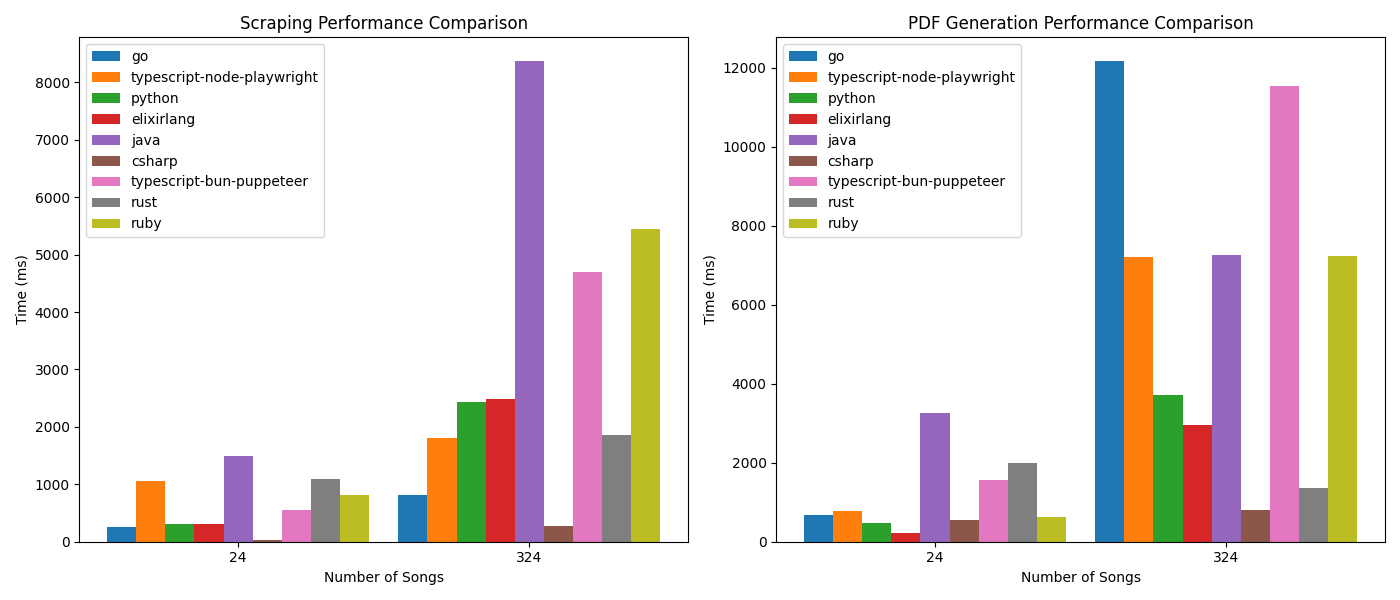
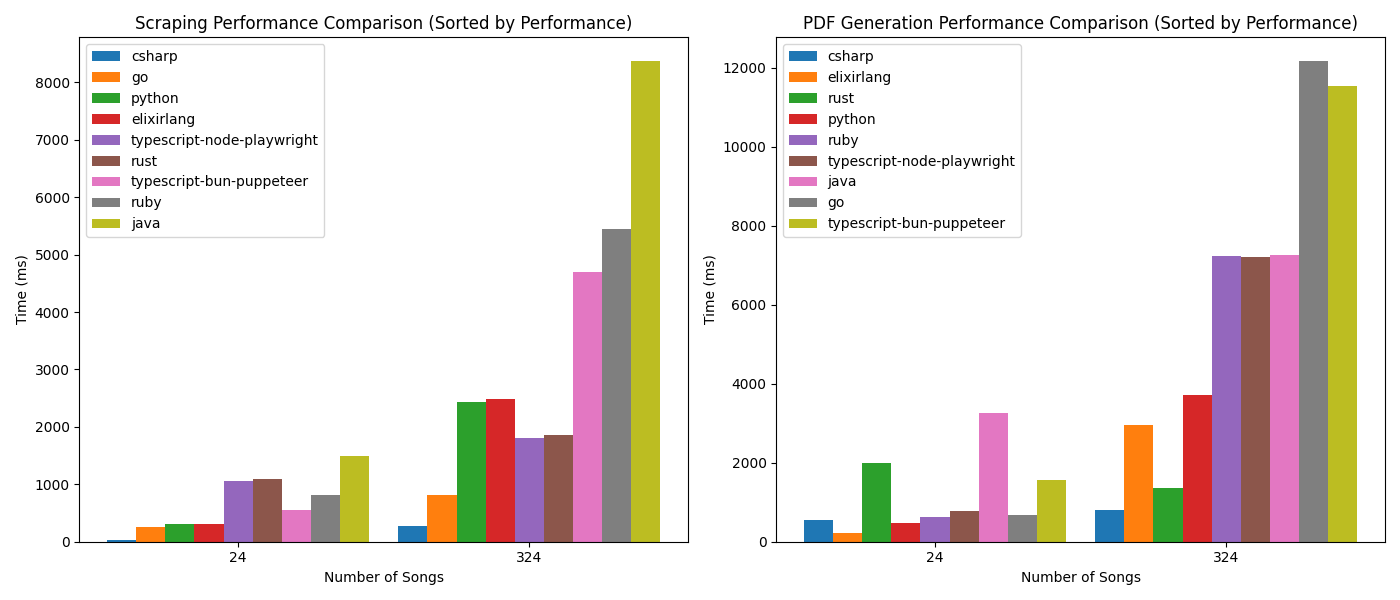
sorted plot

diff --git a/benchmark.py b/benchmark.py
@@ -34,26 +34,35 @@ def plot_benchmark_comparison(benchmarks: List[Benchmark], filepath: str) -> Non
             data_scraping[lang].append(benchmark.scrape_time if benchmark else 0)
             data_pdf[lang].append(benchmark.pdf_generate_time if benchmark else 0)
 
+    # Ordenar lenguajes por rendimiento promedio (menor tiempo = mejor rendimiento)
+    avg_scraping_times = {lang: np.mean(data_scraping[lang]) for lang in languages}
+    avg_pdf_times = {lang: np.mean(data_pdf[lang]) for lang in languages}
+
+    languages_sorted_scraping = sorted(languages, key=lambda lang: avg_scraping_times[lang])
+    languages_sorted_pdf = sorted(languages, key=lambda lang: avg_pdf_times[lang])
+
     x = np.arange(len(songs))
     bar_width = 0.1
 
     fig, axs = plt.subplots(1, 2, figsize=(14, 6))
 
-    for i, lang in enumerate(languages):
+    # Gráfico de scraping ordenado por rendimiento
+    for i, lang in enumerate(languages_sorted_scraping):
         axs[0].bar(x + i * bar_width, data_scraping[lang], bar_width, label=lang)
     axs[0].set_xlabel("Number of Songs")
     axs[0].set_ylabel("Time (ms)")
-    axs[0].set_title("Scraping Performance Comparison")
-    axs[0].set_xticks(x + bar_width * (len(languages) / 2 - 0.5))
+    axs[0].set_title("Scraping Performance Comparison (Sorted by Performance)")
+    axs[0].set_xticks(x + bar_width * (len(languages_sorted_scraping) / 2 - 0.5))
     axs[0].set_xticklabels(songs)
     axs[0].legend()
 
-    for i, lang in enumerate(languages):
+    # Gráfico de PDF ordenado por rendimiento
+    for i, lang in enumerate(languages_sorted_pdf):
         axs[1].bar(x + i * bar_width, data_pdf[lang], bar_width, label=lang)
     axs[1].set_xlabel("Number of Songs")
     axs[1].set_ylabel("Time (ms)")
-    axs[1].set_title("PDF Generation Performance Comparison")
-    axs[1].set_xticks(x + bar_width * (len(languages) / 2 - 0.5))
+    axs[1].set_title("PDF Generation Performance Comparison (Sorted by Performance)")
+    axs[1].set_xticks(x + bar_width * (len(languages_sorted_pdf) / 2 - 0.5))
     axs[1].set_xticklabels(songs)
     axs[1].legend()
 
